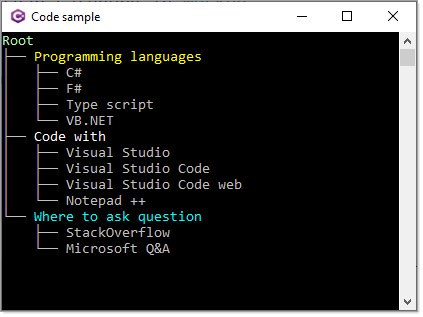
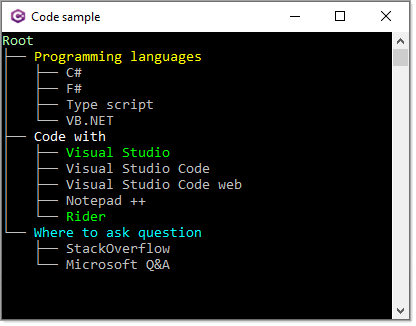
readme in tree project

diff --git a/TreeConsoleApp/Classes/Mocked.cs b/TreeConsoleApp/Classes/Mocked.cs
@@ -16,7 +16,7 @@ namespace TreeConsoleApp.Classes
                 => new()
                 {
                     new () { Id = 1, List = new List<string>() { "C#", "F#", "Type script", "VB.NET" } },
-                    new () { Id = 2, List = new List<string>() { "Visual Studio", "Visual Studio Code", "Visual Studio Code web", "Notepad ++" } },
+                    new () { Id = 2, List = new List<string>() { "[green1][b]Visual Studio[/][/]", "Visual Studio Code", "Visual Studio Code web", "Notepad ++", "[green1][b]Rider[/][/]" } },
                     new () {Id = 3, List = new List<string>(){ "StackOverflow", "Microsoft Q&A" } }
                 };
 

diff --git a/TreeConsoleApp/readme.md b/TreeConsoleApp/readme.md
@@ -4,5 +4,5 @@ The [Tree](https://spectreconsole.net/widgets/tree) widget can be used to render
 
 Demonstration for creating a dynamic tree based off mocked data, similar to what might be done with relational data from a database or other data source.
 
-
 ![Screen Shot](assets/screenShot.png)
+
